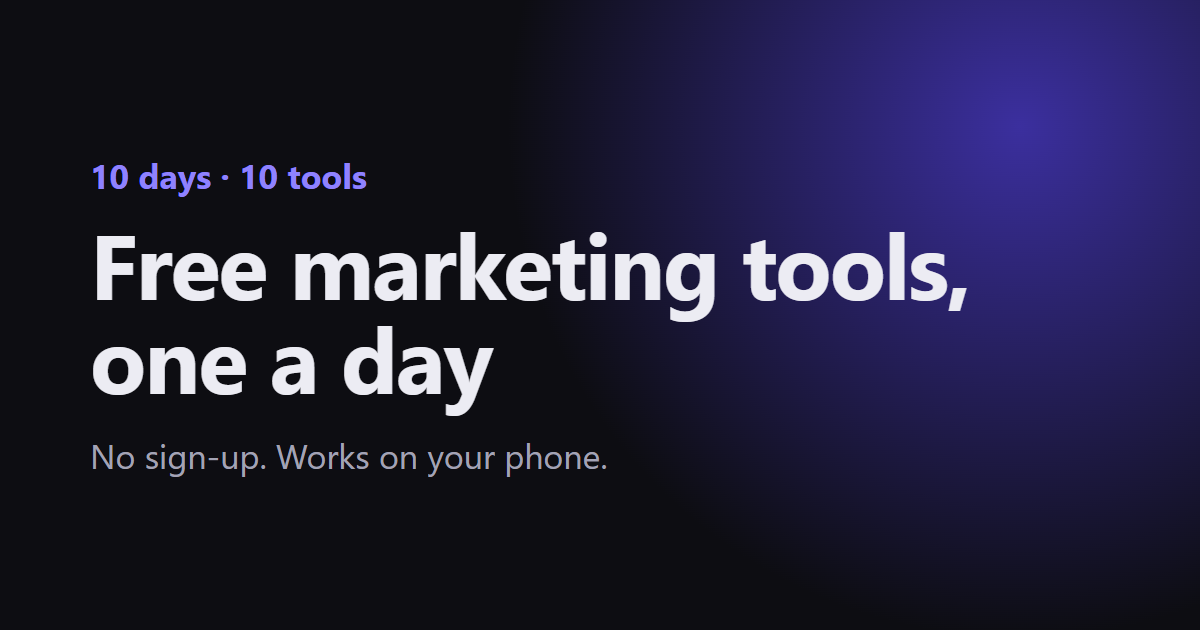
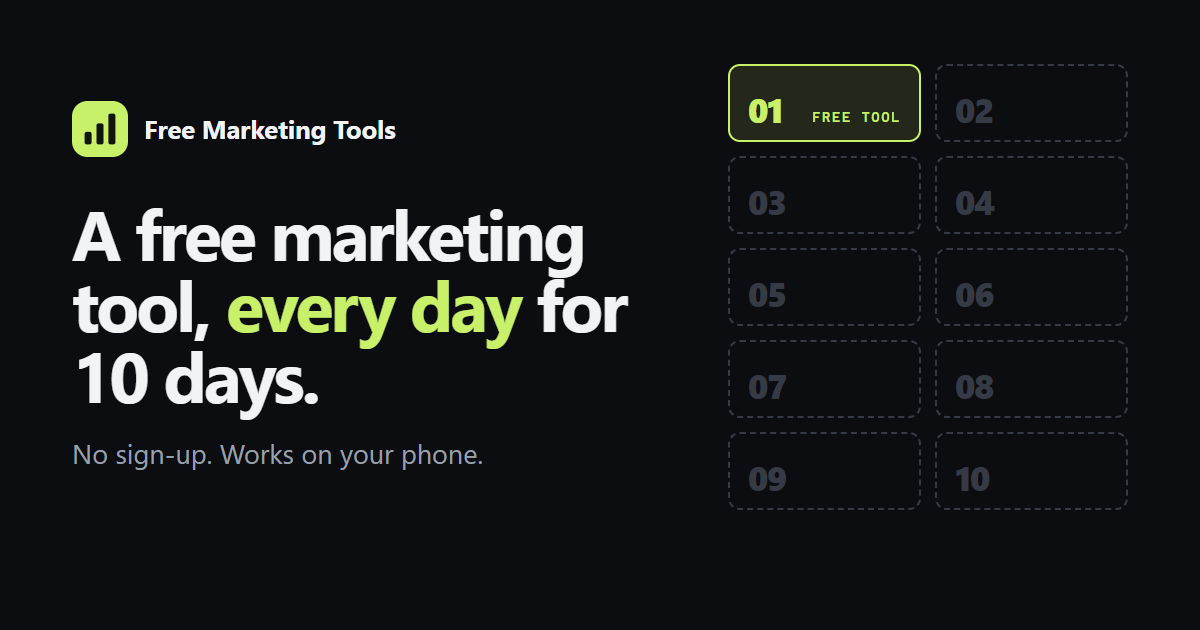
Hub: preview image in the hub's own look, Shares-style Made with Omniscio badge, tool links straight to the Share host

diff --git a/scripts/og-card.html b/scripts/og-card.html
@@ -2,21 +2,35 @@
 <html lang="en">
 <head>
 <meta charset="utf-8">
+<!-- The link-preview card mirrors the hub: same tokens, same headline, same 10-day grid. Keep it Omniscio-free. -->
+<link rel="stylesheet" href="../shared/tokens.css">
 <style>
-  html, body { margin: 0; width: 1200px; height: 630px; }
-  body {
-    display: flex; flex-direction: column; justify-content: center; padding: 0 90px; box-sizing: border-box;
-    background: radial-gradient(circle at 85% 20%, #3b2f9e 0%, transparent 45%), #0d0d12;
-    color: #ececf3; font-family: system-ui, "Segoe UI", Roboto, sans-serif;
-  }
-  .kicker { font-size: 34px; font-weight: 700; color: #8f82ff; margin: 0 0 18px; }
-  h1 { font-size: 92px; line-height: 1.02; margin: 0; letter-spacing: -0.02em; }
-  p { font-size: 34px; color: #a3a3b5; margin: 28px 0 0; }
+  html, body { width: 1200px; height: 630px; overflow: hidden; }
+  body { padding: 48px 72px 104px; display: grid; grid-template-columns: 1fr 400px; gap: 56px; align-items: center; }
+  .mark { display: flex; align-items: center; gap: 16px; font-size: 26px; font-weight: 750; letter-spacing: -.01em; }
+  .mark img { width: 56px; height: 56px; }
+  h1 { font-size: 70px; line-height: 1.02; letter-spacing: -.04em; margin: 40px 0 22px; }
+  h1 em { font-style: normal; color: var(--lime); }
+  p { font-size: 27px; color: var(--muted); margin: 0; }
+  .grid { display: grid; grid-template-columns: repeat(2, 1fr); gap: 14px; }
+  .slot { height: 78px; border-radius: var(--radius-sm); border: 2px dashed var(--line-strong); padding: 14px 18px; display: flex; align-items: flex-end; }
+  .slot b { font: 800 34px/1 var(--font); letter-spacing: -.04em; color: var(--line-strong); }
+  .slot.on { border: 2px solid var(--lime); background: var(--lime-soft); justify-content: space-between; }
+  .slot.on b { color: var(--lime); }
+  .slot.on .label { color: var(--lime); font-size: 14px; }
 </style>
 </head>
 <body>
-  <div class="kicker">10 days · 10 tools</div>
-  <h1>Free marketing tools,<br>one a day</h1>
-  <p>No sign-up. Works on your phone.</p>
+  <div>
+    <div class="mark"><img src="../docs/mark.svg" alt=""><span>Free Marketing Tools</span></div>
+    <h1>A free marketing tool, <em>every day</em> for 10 days.</h1>
+    <p>No sign-up. Works on your phone.</p>
+  </div>
+  <div class="grid">
+    <div class="slot on"><b>01</b><span class="label">Free tool</span></div>
+    <div class="slot"><b>02</b></div><div class="slot"><b>03</b></div><div class="slot"><b>04</b></div>
+    <div class="slot"><b>05</b></div><div class="slot"><b>06</b></div><div class="slot"><b>07</b></div>
+    <div class="slot"><b>08</b></div><div class="slot"><b>09</b></div><div class="slot"><b>10</b></div>
+  </div>
 </body>
 </html>

diff --git a/docs/index.html b/docs/index.html
@@ -51,6 +51,21 @@
   .locked.next .when { color: var(--muted); }
   footer { margin-top: var(--space-4); }
   #load-error { color: var(--coral); }
+
+  /* The same floating attribution pill an Omniscio Share carries; the page reserves room for it. */
+  body { padding-bottom: 72px; }
+  .made-with {
+    position: fixed; right: 16px; bottom: 16px; z-index: 10;
+    display: inline-flex; align-items: center; gap: 8px; padding: 7px 14px 7px 7px;
+    border-radius: 999px; text-decoration: none; color: var(--text);
+    background: rgba(21, 23, 28, .72); border: 1px solid var(--line-strong);
+    box-shadow: 0 4px 18px rgba(0, 0, 0, .35);
+    -webkit-backdrop-filter: blur(10px) saturate(1.2); backdrop-filter: blur(10px) saturate(1.2);
+    font: 600 14px/1 var(--font); transition: border-color .15s ease;
+  }
+  .made-with:hover { border-color: var(--lime); }
+  .made-with img { width: 24px; height: 24px; }
+  .made-with span { color: var(--muted); font-weight: 500; }
 </style>
 </head>
 <body>
@@ -76,6 +91,7 @@
     <p id="load-error" hidden>The tool list didn't load. Refresh the page to try again.</p>
   </main>
 </div>
+<a class="made-with" href="https://omniscio.com" target="_blank" rel="noopener"><img src="orb.png" alt="" width="24" height="24"><span>Made with</span> Omniscio</a>
 <template id="tool-card">
   <li class="slot shipped">
     <div class="shot"></div>

diff --git a/README.md b/README.md
@@ -34,7 +34,8 @@ ship.
   character count. Live width meters for the title and description, warnings for cut text and a focus
   keyword missing from the title, and 30/90/15 character counters for ad headlines, descriptions and
   paths. The pixel limits are commonly measured estimates; Google doesn't publish them.
-- **The hub.** A brand column with a 10-segment progress bar, and a grid of all 10 days: shipped tools as cards with a screenshot, future days locked. A neutral link preview for posting on X.
+- **The hub.** A brand column with a 10-segment progress bar, and a grid of all 10 days: shipped tools as cards with a screenshot, future days locked. A floating Made with Omniscio badge, the
+  same one an Omniscio Share carries, and a link preview in the hub's own look that stays neutral for X.
 - **Phone-first.** Every page is checked at 390 px wide with no sideways scrolling.
 - **No accounts, no tracking, nothing stored.** Each tool runs entirely in the browser.
 
@@ -90,7 +91,9 @@ npm run check:ui      # phone + desktop checks (needs Playwright + Chrome)
 2. `npm run build`, then `node scripts/render-shots.cjs` for the card thumbnail, then `npm run check:ui`.
    The page check serves each tool under the Share's sandbox rules; if the tool copies to the
    clipboard, test every fallback (see the UTM tool's checks).
-3. Publish `dist/<name>.html` as an Omniscio Share that never expires.
+3. Publish `dist/<name>.html` as an Omniscio Share that never expires. Its `url` is the
+   `https://shares.omniscio.com/s/<token>` address, never the `omnisc.io` short link: that is a
+   second domain, and when it fails to resolve the hub's Open tool button goes nowhere.
 4. Add one entry (`day`, `name`, `blurb`, `url`, `shot: "shots/<name>.png"`) to `upcoming.json`.
    Tools are built ahead of their day, and the hub must only show days already posted on X.
 5. On the tool's day, move its entry from `upcoming.json` to the end of `docs/tools.json` and push.
@@ -98,5 +101,6 @@ npm run check:ui      # phone + desktop checks (needs Playwright + Chrome)
 
 ### Regenerating the preview image
 
-Edit `scripts/og-card.html`, then run `node scripts/render-og.cjs`. Keep it free of the word Omniscio;
-`tests/hub.test.mjs` enforces that for the preview tags.
+Edit `scripts/og-card.html`, then run `node scripts/render-og.cjs`. The card reads `shared/tokens.css`,
+so it follows the hub's colours. Keep its bottom-left corner empty (X lays the page title over it) and
+keep it free of the word Omniscio; `tests/hub.test.mjs` enforces that for the preview tags.
